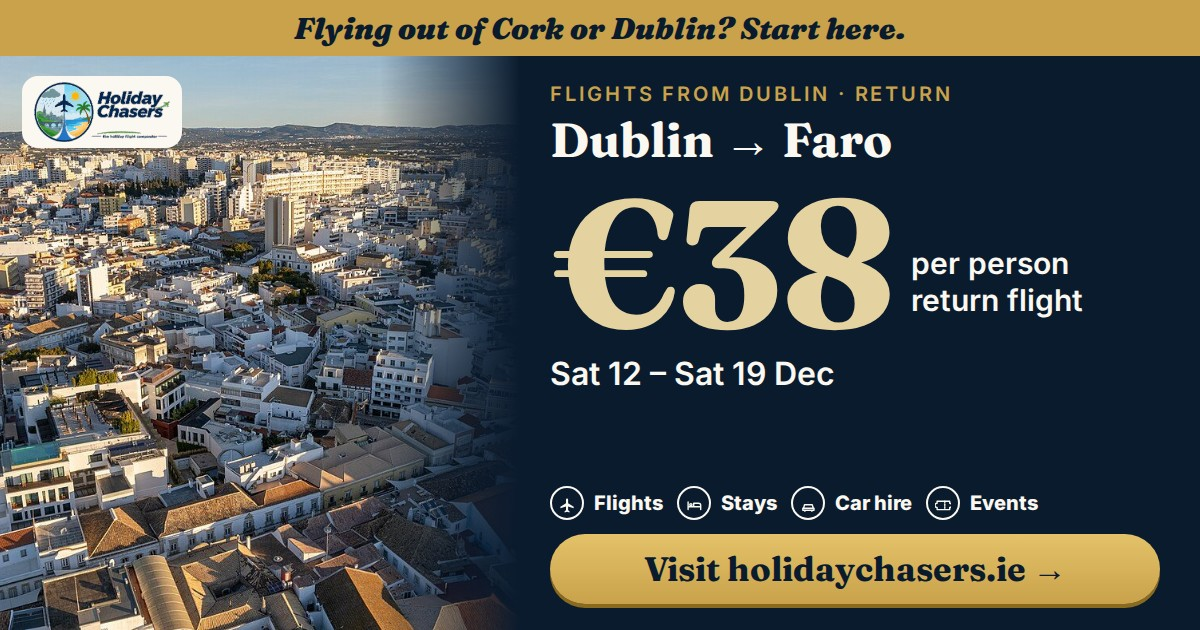
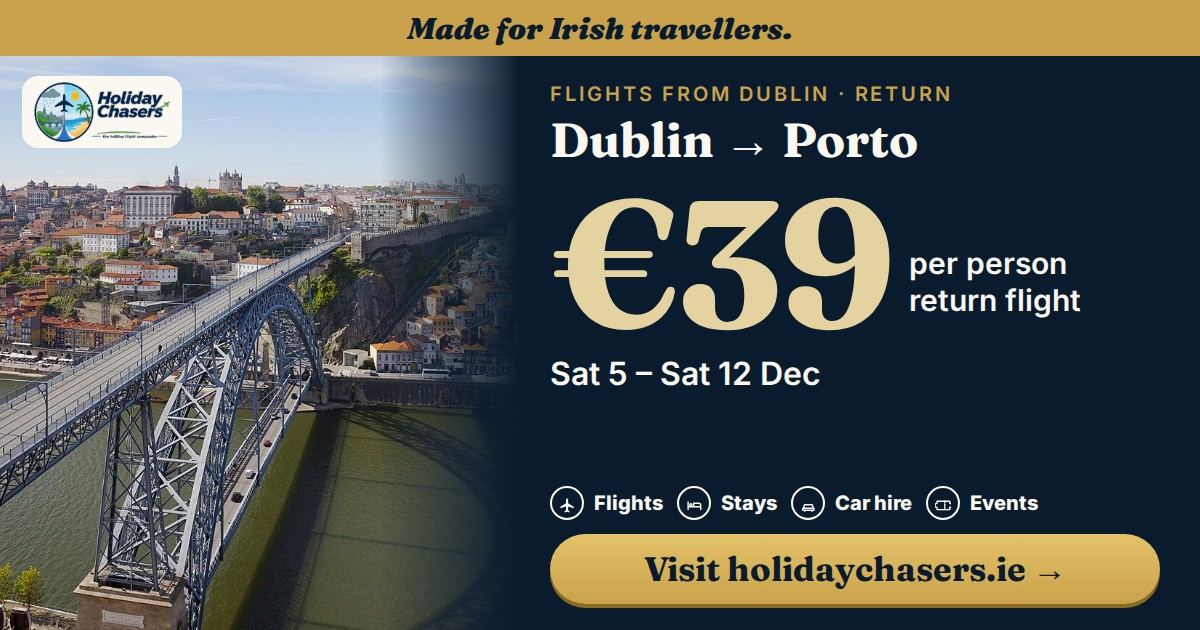
Keep Facebook share pages on the deal that was posted (#9)
Slot names such as hero_dub_classic were rewritten on every refresh, so a live link started showing a later fare. Share pages now use a route, date and price id, and an existing page is left in place. The three pages posted on 11 Nov are restored from the 10 Nov refresh and pinned.

diff --git a/social/p/sun_ork_classic.html b/social/p/sun_ork_classic.html
@@ -1,1 +1,1 @@
-<!doctype html><html lang=en><head><meta charset=utf-8><title>Winter sun from Cork: Faro from €40, Las Palmas from €48</title><meta name=robots content=noindex><meta name=viewport content='width=device-width,initial-scale=1'><meta property=og:type content=website><meta property=og:site_name content='Holiday Chasers'><meta property=og:title content="Winter sun from Cork: Faro from €40, Las Palmas from €48"><meta property=og:description content="Flights, stays, car hire and events: plan your whole trip on holidaychasers.ie"><meta property=og:image content="https://holidaychasers.ie/social/card/sun_ork_classic.jpg"><meta property=og:image:width content=1200><meta property=og:image:height content=630><meta name=twitter:card content=summary_large_image></head><body style='font-family:sans-serif;text-align:center;padding:40px'><script>location.replace("https://holidaychasers.ie/?dest=FAO&from=ORK&utm_source=facebook&utm_medium=social")</script><p>Taking you to <a href="https://holidaychasers.ie/?dest=FAO&from=ORK&utm_source=facebook&utm_medium=social">holidaychasers.ie</a>…</p></body></html>
+<!doctype html><html lang=en><head><meta charset=utf-8><title>Winter sun from Cork: Faro from €35, Fuerteventura from €52</title><meta name=robots content=noindex><meta name=viewport content='width=device-width,initial-scale=1'><meta property=og:type content=website><meta property=og:site_name content='Holiday Chasers'><meta property=og:title content="Winter sun from Cork: Faro from €35, Fuerteventura from €52"><meta property=og:description content="Flights, stays, car hire and events: plan your whole trip on holidaychasers.ie"><meta property=og:image content="https://holidaychasers.ie/social/card/sun_ork_classic.jpg"><meta property=og:image:width content=1200><meta property=og:image:height content=630><meta name=twitter:card content=summary_large_image></head><body style='font-family:sans-serif;text-align:center;padding:40px'><script>location.replace("https://holidaychasers.ie/?dest=FAO&from=ORK&utm_source=facebook&utm_medium=social")</script><p>Taking you to <a href="https://holidaychasers.ie/?dest=FAO&from=ORK&utm_source=facebook&utm_medium=social">holidaychasers.ie</a>…</p></body></html>

diff --git a/social/p/sun_dub_classic.html b/social/p/sun_dub_classic.html
@@ -1,1 +1,1 @@
-<!doctype html><html lang=en><head><meta charset=utf-8><title>Winter sun from Dublin: Malaga from €40, Las Palmas from €51</title><meta name=robots content=noindex><meta name=viewport content='width=device-width,initial-scale=1'><meta property=og:type content=website><meta property=og:site_name content='Holiday Chasers'><meta property=og:title content="Winter sun from Dublin: Malaga from €40, Las Palmas from €51"><meta property=og:description content="Flights, stays, car hire and events: plan your whole trip on holidaychasers.ie"><meta property=og:image content="https://holidaychasers.ie/social/card/sun_dub_classic.jpg"><meta property=og:image:width content=1200><meta property=og:image:height content=630><meta name=twitter:card content=summary_large_image></head><body style='font-family:sans-serif;text-align:center;padding:40px'><script>location.replace("https://holidaychasers.ie/?dest=AGP&from=DUB&utm_source=facebook&utm_medium=social")</script><p>Taking you to <a href="https://holidaychasers.ie/?dest=AGP&from=DUB&utm_source=facebook&utm_medium=social">holidaychasers.ie</a>…</p></body></html>
+<!doctype html><html lang=en><head><meta charset=utf-8><title>Winter sun from Dublin: Malaga from €40, Faro from €45</title><meta name=robots content=noindex><meta name=viewport content='width=device-width,initial-scale=1'><meta property=og:type content=website><meta property=og:site_name content='Holiday Chasers'><meta property=og:title content="Winter sun from Dublin: Malaga from €40, Faro from €45"><meta property=og:description content="Flights, stays, car hire and events: plan your whole trip on holidaychasers.ie"><meta property=og:image content="https://holidaychasers.ie/social/card/sun_dub_classic.jpg"><meta property=og:image:width content=1200><meta property=og:image:height content=630><meta name=twitter:card content=summary_large_image></head><body style='font-family:sans-serif;text-align:center;padding:40px'><script>location.replace("https://holidaychasers.ie/?dest=AGP&from=DUB&utm_source=facebook&utm_medium=social")</script><p>Taking you to <a href="https://holidaychasers.ie/?dest=AGP&from=DUB&utm_source=facebook&utm_medium=social">holidaychasers.ie</a>…</p></body></html>

diff --git a/social/p/hero_dub_classic.html b/social/p/hero_dub_classic.html
@@ -1,1 +1,1 @@
-<!doctype html><html lang=en><head><meta charset=utf-8><title>Dublin to Faro from €38 return per person</title><meta name=robots content=noindex><meta name=viewport content='width=device-width,initial-scale=1'><meta property=og:type content=website><meta property=og:site_name content='Holiday Chasers'><meta property=og:title content="Dublin to Faro from €38 return per person"><meta property=og:description content="Flights, stays, car hire and events: plan your whole trip on holidaychasers.ie"><meta property=og:image content="https://holidaychasers.ie/social/card/hero_dub_classic.jpg"><meta property=og:image:width content=1200><meta property=og:image:height content=630><meta name=twitter:card content=summary_large_image></head><body style='font-family:sans-serif;text-align:center;padding:40px'><script>location.replace("https://holidaychasers.ie/?dest=FAO&from=DUB&utm_source=facebook&utm_medium=social")</script><p>Taking you to <a href="https://holidaychasers.ie/?dest=FAO&from=DUB&utm_source=facebook&utm_medium=social">holidaychasers.ie</a>…</p></body></html>
+<!doctype html><html lang=en><head><meta charset=utf-8><title>Dublin to Porto from €39 return per person</title><meta name=robots content=noindex><meta name=viewport content='width=device-width,initial-scale=1'><meta property=og:type content=website><meta property=og:site_name content='Holiday Chasers'><meta property=og:title content="Dublin to Porto from €39 return per person"><meta property=og:description content="Flights, stays, car hire and events: plan your whole trip on holidaychasers.ie"><meta property=og:image content="https://holidaychasers.ie/social/card/hero_dub_classic.jpg"><meta property=og:image:width content=1200><meta property=og:image:height content=630><meta name=twitter:card content=summary_large_image></head><body style='font-family:sans-serif;text-align:center;padding:40px'><script>location.replace("https://holidaychasers.ie/?dest=OPO&from=DUB&utm_source=facebook&utm_medium=social")</script><p>Taking you to <a href="https://holidaychasers.ie/?dest=OPO&from=DUB&utm_source=facebook&utm_medium=social">holidaychasers.ie</a>…</p></body></html>

diff --git a/social/p/dub-agp-20270109-20270116-40-dub-lpa-20261205-20261212-51-classic.html b/social/p/dub-agp-20270109-20270116-40-dub-lpa-20261205-20261212-51-classic.html
@@ -1,0 +1,1 @@
+<!doctype html><html lang=en><head><meta charset=utf-8><title>Winter sun from Dublin: Malaga from €40, Las Palmas from €51</title><meta name=robots content=noindex><meta name=viewport content='width=device-width,initial-scale=1'><meta property=og:type content=website><meta property=og:site_name content='Holiday Chasers'><meta property=og:title content="Winter sun from Dublin: Malaga from €40, Las Palmas from €51"><meta property=og:description content="Flights, stays, car hire and events: plan your whole trip on holidaychasers.ie"><meta property=og:image content="https://holidaychasers.ie/social/card/dub-agp-20270109-20270116-40-dub-lpa-20261205-20261212-51-classic.jpg"><meta property=og:image:width content=1200><meta property=og:image:height content=630><meta name=twitter:card content=summary_large_image></head><body style='font-family:sans-serif;text-align:center;padding:40px'><script>location.replace("https://holidaychasers.ie/?dest=AGP&from=DUB&utm_source=facebook&utm_medium=social")</script><p>Taking you to <a href="https://holidaychasers.ie/?dest=AGP&from=DUB&utm_source=facebook&utm_medium=social">holidaychasers.ie</a>…</p></body></html>

diff --git a/social/p/ork-fao-20261204-20261206-40-ork-lpa-20261203-20261206-48-classic.html b/social/p/ork-fao-20261204-20261206-40-ork-lpa-20261203-20261206-48-classic.html
@@ -1,0 +1,1 @@
+<!doctype html><html lang=en><head><meta charset=utf-8><title>Winter sun from Cork: Faro from €40, Las Palmas from €48</title><meta name=robots content=noindex><meta name=viewport content='width=device-width,initial-scale=1'><meta property=og:type content=website><meta property=og:site_name content='Holiday Chasers'><meta property=og:title content="Winter sun from Cork: Faro from €40, Las Palmas from €48"><meta property=og:description content="Flights, stays, car hire and events: plan your whole trip on holidaychasers.ie"><meta property=og:image content="https://holidaychasers.ie/social/card/ork-fao-20261204-20261206-40-ork-lpa-20261203-20261206-48-classic.jpg"><meta property=og:image:width content=1200><meta property=og:image:height content=630><meta name=twitter:card content=summary_large_image></head><body style='font-family:sans-serif;text-align:center;padding:40px'><script>location.replace("https://holidaychasers.ie/?dest=FAO&from=ORK&utm_source=facebook&utm_medium=social")</script><p>Taking you to <a href="https://holidaychasers.ie/?dest=FAO&from=ORK&utm_source=facebook&utm_medium=social">holidaychasers.ie</a>…</p></body></html>

diff --git a/social/p/dub-fao-20261212-20261219-38-classic.html b/social/p/dub-fao-20261212-20261219-38-classic.html
@@ -1,0 +1,1 @@
+<!doctype html><html lang=en><head><meta charset=utf-8><title>Dublin to Faro from €38 return per person</title><meta name=robots content=noindex><meta name=viewport content='width=device-width,initial-scale=1'><meta property=og:type content=website><meta property=og:site_name content='Holiday Chasers'><meta property=og:title content="Dublin to Faro from €38 return per person"><meta property=og:description content="Flights, stays, car hire and events: plan your whole trip on holidaychasers.ie"><meta property=og:image content="https://holidaychasers.ie/social/card/dub-fao-20261212-20261219-38-classic.jpg"><meta property=og:image:width content=1200><meta property=og:image:height content=630><meta name=twitter:card content=summary_large_image></head><body style='font-family:sans-serif;text-align:center;padding:40px'><script>location.replace("https://holidaychasers.ie/?dest=FAO&from=DUB&utm_source=facebook&utm_medium=social")</script><p>Taking you to <a href="https://holidaychasers.ie/?dest=FAO&from=DUB&utm_source=facebook&utm_medium=social">holidaychasers.ie</a>…</p></body></html>

diff --git a/social/generate_posts.py b/social/generate_posts.py
@@ -4,6 +4,8 @@ Build ready-to-post Facebook posts from the live fare cache.
 Reads  deals_cache.json  (written by refresh_deals.py)
 Writes social/out/<slot>.png   one 1080x1080 poster per post
        social/posts.json       captions + deep links + poster paths
+       social/p/<deal>.html    permanent share page (written once, never replaced)
+       social/card/<deal>.jpg  the preview image that page points at
 
 Run after refresh_deals.py. Needs Playwright + Chromium to render posters
 (pip install playwright && playwright install chromium).
@@ -251,6 +253,35 @@ def make_card(png_path, jpg_path):
     bg.save(jpg_path, quality=88, optimize=True)
 
 
+# These filenames were used for whatever deal was current, and live Facebook posts
+# already point at them. Never write them again.
+PINNED_SHARES = frozenset({
+    "hero_dub_classic",   # Dublin–Porto, posted 11 Nov 2026
+    "sun_dub_classic",    # Dublin winter sun, posted 11 Nov 2026
+    "sun_ork_classic",    # Cork winter sun, posted 11 Nov 2026
+})
+
+
+def share_id(design, deals, slot):
+    """Stable page id. Deal pages name the route, dates and price, so a later fare is a new file.
+    Feature posts have no fare; they keep the slot name."""
+    if not deals:
+        return f"{slot}_{design}"
+    parts = []
+    for c in deals:
+        parts.append(
+            f"{c['ap'].lower()}-{c['code'].lower()}-{c['dep'].replace('-', '')}-{c['ret'].replace('-', '')}-{int(c['price'])}"
+        )
+    return "-".join(parts) + f"-{design}"
+
+
+def share_is_frozen(sid, page_dir):
+    """True when this share page must be left exactly as it is."""
+    if sid in PINNED_SHARES:
+        return True
+    return os.path.exists(os.path.join(page_dir, sid + ".html"))
+
+
 def share_page(path, title, desc, image_url, target):
     """Tiny page Facebook scrapes for a clickable preview card (poster image + title). People are sent on to the site."""
     t = html.escape(title, quote=True); dsc = html.escape(desc, quote=True)
@@ -263,6 +294,16 @@ def share_page(path, title, desc, image_url, target):
         f"<meta property=og:image content=\"{image_url}\"><meta property=og:image:width content=1200><meta property=og:image:height content=630>"
         f"<meta name=twitter:card content=summary_large_image></head><body style='font-family:sans-serif;text-align:center;padding:40px'>"
         f"<script>location.replace({target_js})</script><p>Taking you to <a href={target_js}>holidaychasers.ie</a>…</p></body></html>")
+
+
+def publish_share_pages(shares, page_dir):
+    """Write share pages that do not exist yet. An existing page is a published link: leave it alone."""
+    os.makedirs(page_dir, exist_ok=True)
+    for sid, title, desc, image_url, target in shares:
+        if share_is_frozen(sid, page_dir):
+            print("  keep share page", sid)
+            continue
+        share_page(os.path.join(page_dir, sid + ".html"), title, desc, image_url, target)
 
 
 # ── main ────────────────────────────────────────────────────────────────────
@@ -279,17 +320,25 @@ def build(today=None):
     posts, pages = [], {}
     SHARES = []
 
+    page_dir = os.path.join(ROOT, "p")
+
     def add(slot, kind, cs, caption, html_, link_url, title, desc):
-        posters = {}
+        posters, sids = {}, {}
         for (des, f), h in html_.items():
-            name = f"{slot}_{des}" + {"story": "_story", "card": "_card", "feed": ""}[f]
-            pages[name] = h
-            if f != "card":
+            if f == "card":
+                sid = share_id(des, cs, slot)
+                sids[des] = sid
+                # The preview image is part of the published page. Skip it once that page exists.
+                if not share_is_frozen(sid, page_dir):
+                    pages[sid + "_card"] = h
+            else:
+                name = f"{slot}_{des}" + ("_story" if f == "story" else "")
+                pages[name] = h
                 posters.setdefault(des, {})[f] = f"social/out/{name}.png"
-        for des in posters:
-            posters[des]["card"] = f"social/card/{slot}_{des}.jpg"
-            posters[des]["share"] = f"{SHARE_BASE}p/{slot}_{des}.html?v={today.strftime('%m%d')}"
-            SHARES.append((slot, des, title, desc, link_url))
+        for des, sid in sids.items():
+            posters[des]["card"] = f"social/card/{sid}.jpg"
+            posters[des]["share"] = f"{SHARE_BASE}p/{sid}.html"
+            SHARES.append((sid, title, desc, f"{SHARE_BASE}card/{sid}.jpg", link_url))
         posts.append(dict(id=slot, type=kind, airport=cs[0]["ap"] if cs else None, caption=caption, link=link_url.replace("https://", ""),
                           poster=posters["classic"]["feed"], story=posters["classic"]["story"], posters=posters, deals=cs,
                           expires=min(c["dep"] for c in cs) if cs else None))
@@ -324,17 +373,16 @@ def build(today=None):
     os.makedirs(OUT, exist_ok=True); shutil.rmtree(BUILD, ignore_errors=True); os.makedirs(BUILD)
     for f in glob.glob(os.path.join(OUT, "*.png")):
         os.remove(f)
-    shutil.rmtree(os.path.join(ROOT, "card"), ignore_errors=True)
-    for slot, h in pages.items():
-        open(os.path.join(BUILD, slot + ".html"), "w", encoding="utf-8").write(h)
+    # social/p and social/card are not cleared: a share URL, once published, keeps its deal.
+    for name, h in pages.items():
+        open(os.path.join(BUILD, name + ".html"), "w", encoding="utf-8").write(h)
     render(list(pages))
     shutil.rmtree(BUILD, ignore_errors=True)
 
-    # link-preview cards + share pages (clickable poster when posted as a link)
-    pdir = os.path.join(ROOT, "p")
-    shutil.rmtree(pdir, ignore_errors=True); os.makedirs(pdir)
-    for slot, des, title, desc, target in SHARES:
-        share_page(os.path.join(pdir, f"{slot}_{des}.html"), title, desc, f"{SHARE_BASE}card/{slot}_{des}.jpg", target)
+    for sid in sorted(PINNED_SHARES):
+        if not os.path.exists(os.path.join(page_dir, sid + ".html")):
+            print("WARNING: pinned share page missing:", sid)
+    publish_share_pages(SHARES, page_dir)
 
     # evergreen posts (no prices, never go stale)
     ev = [
@@ -360,6 +408,8 @@ def render(slots):
         os.makedirs(os.path.join(ROOT, "card"), exist_ok=True)
         for s in slots:
             card = s.endswith("_card")
+            if card and share_is_frozen(s[:-5], os.path.join(ROOT, "p")):
+                continue
             pg = b.new_page(viewport={"width": 1200, "height": 630} if card else {"width": 1080, "height": 1920 if s.endswith("_story") else 1080})
             pg.goto("file://" + os.path.join(BUILD, s + ".html"))
             pg.wait_for_timeout(500)

diff --git a/social/test_share_pages.py b/social/test_share_pages.py
@@ -1,0 +1,68 @@
+"""Share pages stay on the deal they were created for. Run: python social/test_share_pages.py"""
+import json, os, sys, tempfile
+
+sys.path.insert(0, os.path.dirname(os.path.abspath(__file__)))
+import generate_posts as g
+
+
+def deal(ap, code, price, dep, ret, city="X"):
+    return dict(ap=ap, kind="week", code=code, city=city, price=price, dep=dep, ret=ret, stops=0, airline="")
+
+
+def main():
+    assert g.PINNED_SHARES == frozenset({"hero_dub_classic", "sun_dub_classic", "sun_ork_classic"})
+
+    porto = [deal("DUB", "OPO", 39, "2026-12-05", "2026-12-12", "Porto")]
+    faro = [deal("DUB", "FAO", 38, "2026-12-12", "2026-12-19", "Faro")]
+    assert g.share_id("classic", porto, "hero_dub") == "dub-opo-20261205-20261212-39-classic"
+    assert g.share_id("classic", porto, "hero_dub") != g.share_id("classic", faro, "hero_dub")
+    # A higher price is a different page, so the old link keeps the price that was posted.
+    dearer = [deal("DUB", "OPO", 40, "2026-12-05", "2026-12-12", "Porto")]
+    assert g.share_id("classic", porto, "hero_dub") != g.share_id("classic", dearer, "hero_dub")
+    # The slot name is not part of a deal id: the same fare always maps to the same page.
+    assert g.share_id("classic", porto, "hero_dub") == g.share_id("classic", porto, "sun_dub")
+    assert g.share_id("classic", porto, "hero_dub") not in g.PINNED_SHARES
+    assert g.share_id("ivory", [], "trip_glance") == "trip_glance_ivory"
+
+    sun = [
+        deal("DUB", "AGP", 40, "2027-01-09", "2027-01-16", "Malaga"),
+        deal("DUB", "FAO", 45, "2026-12-05", "2026-12-12", "Faro"),
+    ]
+    assert g.share_id("classic", sun, "sun_dub") == (
+        "dub-agp-20270109-20270116-40-dub-fao-20261205-20261212-45-classic"
+    )
+
+    with tempfile.TemporaryDirectory() as d:
+        for sid in g.PINNED_SHARES:
+            assert g.share_is_frozen(sid, d)
+        g.publish_share_pages([
+            ("hero_dub_classic", "WRONG", "d", "https://example/card.jpg", "https://example/?dest=FAO"),
+            ("dub-opo-20261205-20261212-39-classic", "Dublin to Porto from €39 return per person", "d",
+             "https://holidaychasers.ie/social/card/dub-opo-20261205-20261212-39-classic.jpg",
+             "https://holidaychasers.ie/?dest=OPO&from=DUB&utm_source=facebook&utm_medium=social"),
+        ], d)
+        assert not os.path.exists(os.path.join(d, "hero_dub_classic.html"))
+        path = os.path.join(d, "dub-opo-20261205-20261212-39-classic.html")
+        first = open(path, encoding="utf-8").read()
+        assert "Porto" in first and "€39" in first and "dest=OPO" in first
+        assert "Faro" not in first and "dest=FAO" not in first
+        # A later run with a different fare must not rewrite the existing page.
+        g.publish_share_pages([
+            ("dub-opo-20261205-20261212-39-classic", "Dublin to Faro from €38 return per person", "d",
+             "https://holidaychasers.ie/social/card/other.jpg",
+             "https://holidaychasers.ie/?dest=FAO&from=DUB&utm_source=facebook&utm_medium=social"),
+        ], d)
+        assert open(path, encoding="utf-8").read() == first
+        g.publish_share_pages([
+            ("dub-fao-20261212-20261219-38-classic", "Dublin to Faro from €38 return per person", "d",
+             "https://holidaychasers.ie/social/card/dub-fao-20261212-20261219-38-classic.jpg",
+             "https://holidaychasers.ie/?dest=FAO&from=DUB&utm_source=facebook&utm_medium=social"),
+        ], d)
+        assert os.path.exists(os.path.join(d, "dub-fao-20261212-20261219-38-classic.html"))
+        assert open(path, encoding="utf-8").read() == first
+
+    print("ok")
+
+
+if __name__ == "__main__":
+    main()
